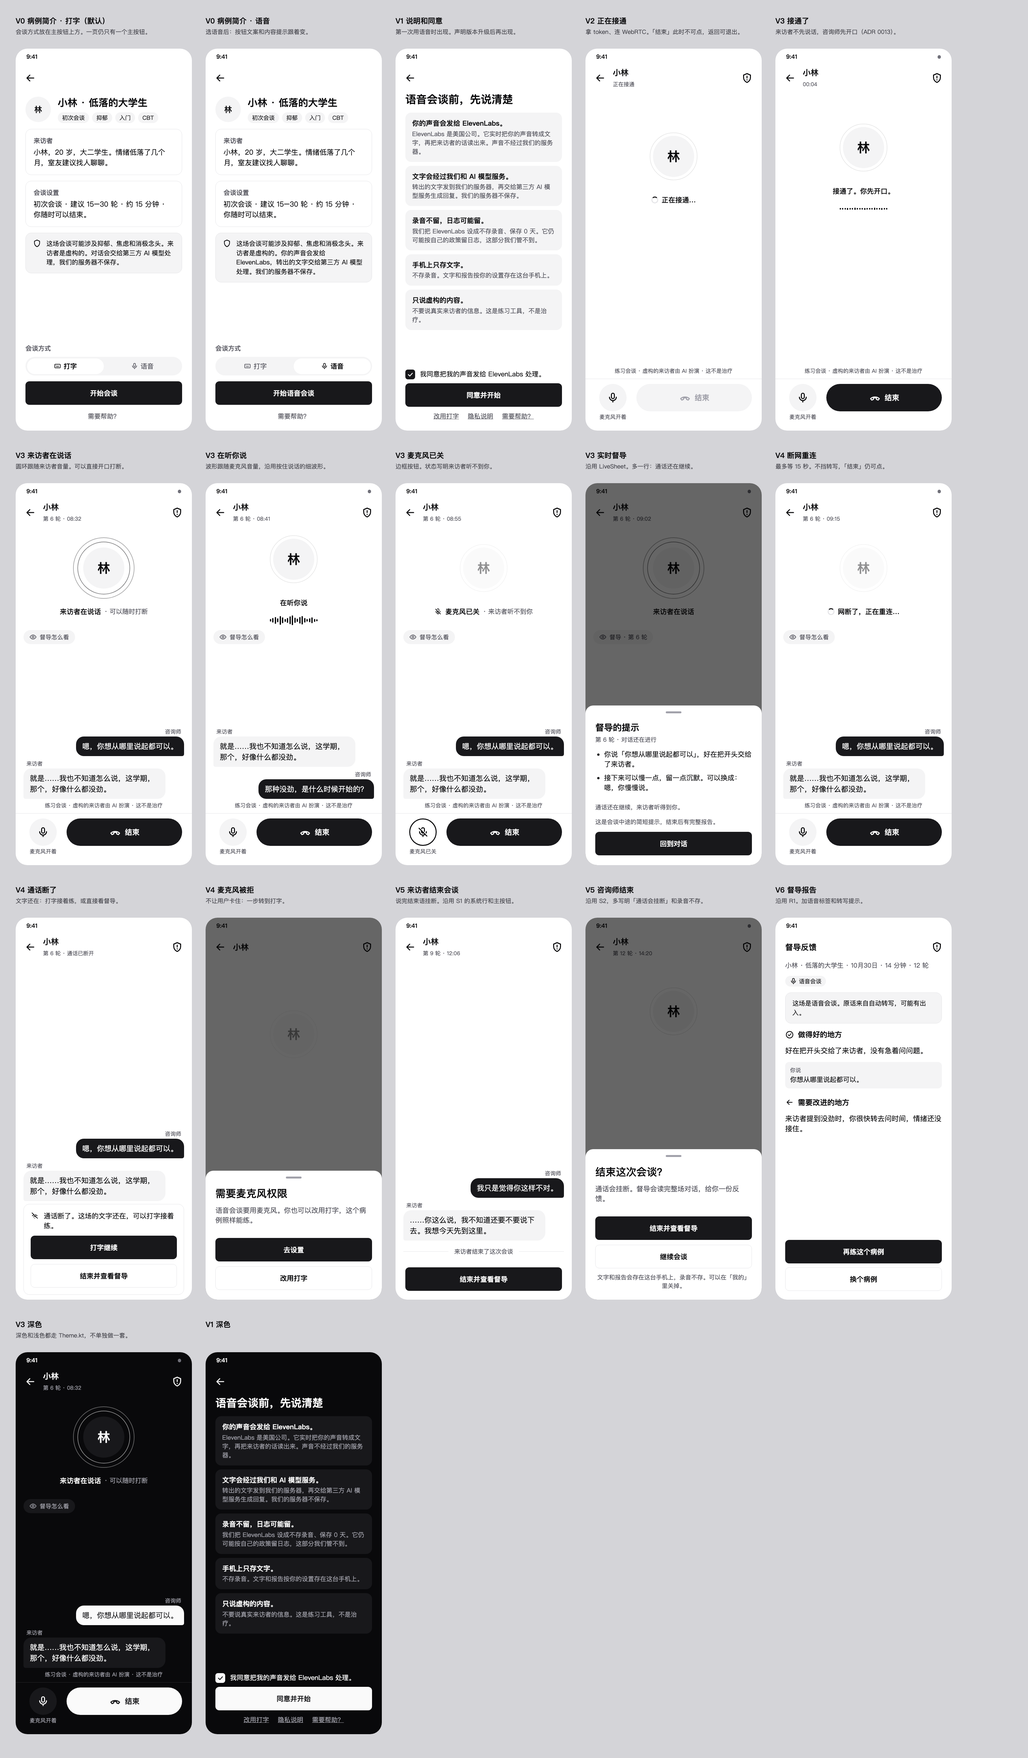
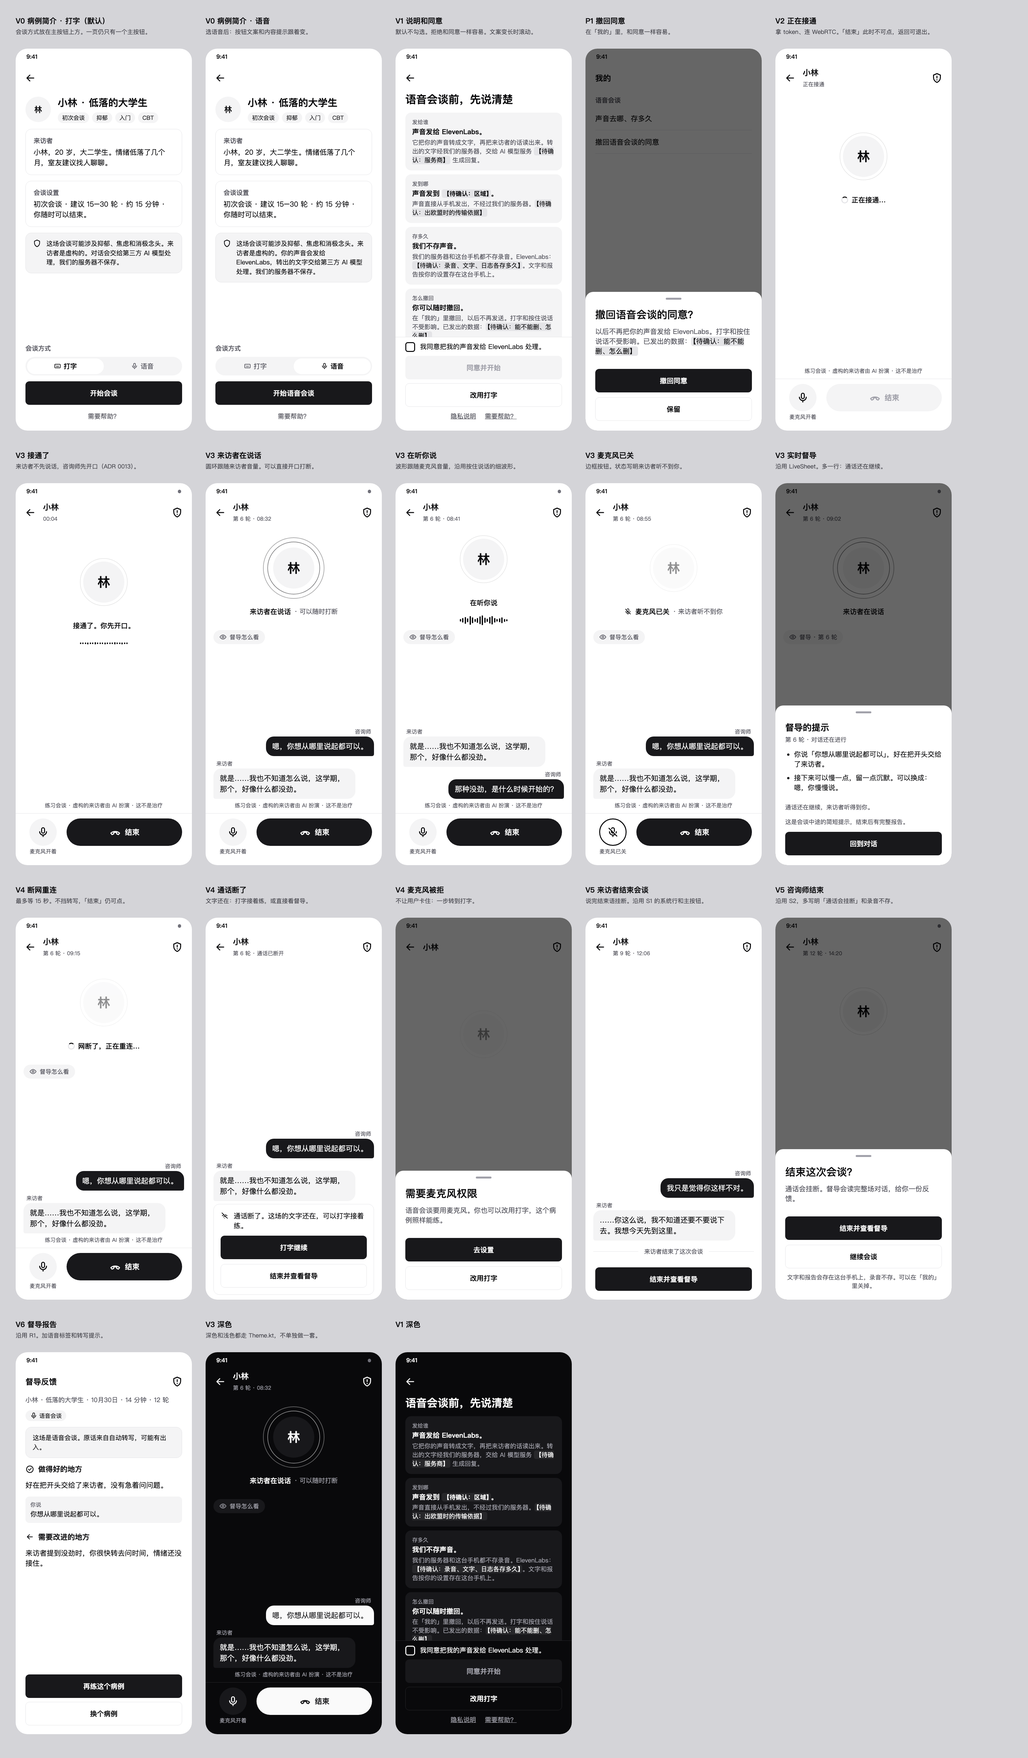
Docs: voice consent for the European version, GDPR shape and withdrawal

diff --git a/docs/product/voice-session-design/frames.html b/docs/product/voice-session-design/frames.html
@@ -38,6 +38,10 @@
   .btn.p { background:var(--primary); color:var(--on-primary); }
   .btn.s { border:1px solid var(--line); color:var(--fg); }
   .btn.off { background:var(--block); color:#A1A1AA; }
+  .box.empty { background:none; border:2px solid var(--fg); }
+  .gray em { display:block; font-style:normal; font-size:11px; color:var(--muted); margin-bottom:2px; }
+  .gray span.tbc, .tbc { display:inline; background:var(--line); border-radius:4px; padding:0 3px; color:var(--fg); }
+  .row { display:flex; align-items:center; font-size:14.5px; min-height:48px; border-bottom:1px solid var(--line); }
   .link { text-align:center; font-size:13px; color:var(--muted); padding:6px 0 2px; }
   .card { border:1px solid var(--line); border-radius:12px; padding:14px 16px; }
   .card label, .lbl { font-size:13px; color:var(--muted); font-weight:500; display:block; margin-bottom:4px; }
@@ -161,17 +165,25 @@ const consent=`${statusBar(false)}
 <div class="top"><div class="ib">${ic('back')}</div></div>
 <div class="body"><div class="pad" style="padding-top:0;gap:8px">
   <div style="font-size:22px;font-weight:600;margin-bottom:4px">语音会谈前，先说清楚</div>
-  <div class="gray"><b>你的声音会发给 ElevenLabs。</b><span>ElevenLabs 是美国公司。它实时把你的声音转成文字，再把来访者的话读出来。声音不经过我们的服务器。</span></div>
-  <div class="gray"><b>文字会经过我们和 AI 模型服务。</b><span>转出的文字发到我们的服务器，再交给第三方 AI 模型服务生成回复。我们的服务器不保存。</span></div>
-  <div class="gray"><b>录音不留，日志可能留。</b><span>我们把 ElevenLabs 设成不存录音、保存 0 天。它仍可能按自己的政策留日志，这部分我们管不到。</span></div>
-  <div class="gray"><b>手机上只存文字。</b><span>不存录音。文字和报告按你的设置存在这台手机上。</span></div>
+  <div class="gray"><em>发给谁</em><b>声音发给 ElevenLabs。</b><span>它把你的声音转成文字，再把来访者的话读出来。转出的文字经我们的服务器，交给 AI 模型服务 <span class="tbc">【待确认：服务商】</span> 生成回复。</span></div>
+  <div class="gray"><em>发到哪</em><b>声音发到 <span class="tbc">【待确认：区域】</span>。</b><span>声音直接从手机发出，不经过我们的服务器。<span class="tbc">【待确认：出欧盟时的传输依据】</span></span></div>
+  <div class="gray"><em>存多久</em><b>我们不存声音。</b><span>我们的服务器和这台手机都不存录音。ElevenLabs：<span class="tbc">【待确认：录音、文字、日志各存多久】</span>。文字和报告按你的设置存在这台手机上。</span></div>
+  <div class="gray"><em>怎么撤回</em><b>你可以随时撤回。</b><span>在「我的」里撤回，以后不再发送。打字和按住说话不受影响。已发出的数据：<span class="tbc">【待确认：能不能删、怎么删】</span></span></div>
   <div class="gray"><b>只说虚构的内容。</b><span>不要说真实来访者的信息。这是练习工具，不是治疗。</span></div>
 </div></div>
-<div class="bottom" style="padding-top:8px">
-  <div class="check"><span class="box">${ic('check')}</span><span>我同意把我的声音发给 ElevenLabs 处理。</span></div>
-  <div class="btn p">同意并开始</div>
-  <div class="link" style="display:flex;justify-content:center;gap:18px;padding-top:2px"><u>改用打字</u><u>隐私说明</u><u>需要帮助？</u></div>
+<div class="bottom" style="padding-top:10px;border-top:1px solid var(--line)">
+  <div class="check"><span class="box empty"></span><span>我同意把我的声音发给 ElevenLabs 处理。</span></div>
+  <div class="btn off">同意并开始</div>
+  <div class="btn s">改用打字</div>
+  <div class="link" style="display:flex;justify-content:center;gap:18px;padding-top:2px"><u>隐私说明</u><u>需要帮助？</u></div>
 </div>`;
+
+const withdraw=`${statusBar(false)}<div class="top"><div class="title" style="padding-left:14px"><b>我的</b></div></div>
+<div class="body"><div class="pad" style="padding-top:0;gap:0"><div class="lbl" style="margin:8px 0 4px">语音会谈</div>
+<div class="row">声音去哪、存多久</div><div class="row">撤回语音会谈的同意</div></div></div>
+<div class="scrim"></div><div class="sheet"><div class="grab"></div>
+<h4>撤回语音会谈的同意？</h4><p>以后不再把你的声音发给 ElevenLabs。打字和按住说话不受影响。已发出的数据：<span class="tbc">【待确认：能不能删、怎么删】</span></p>
+<div style="height:6px"></div><div class="btn p">撤回同意</div><div class="btn s">保留</div></div>`;
 
 const connecting=`${statusBar(false)}${bar('正在接通')}
 <div class="body"><div class="hero" style="height:300px">${orb('quiet')}<div class="state"><span class="spin"></span>正在接通…</div></div>
@@ -244,7 +256,8 @@ const report=`${statusBar(false)}<div class="top"><div class="title" style="padd
 const FRAMES=[
  ['V0 病例简介 · 打字（默认）','会谈方式放在主按钮上方。一页仍只有一个主按钮。',brief(false)],
  ['V0 病例简介 · 语音','选语音后：按钮文案和内容提示跟着变。',brief(true)],
- ['V1 说明和同意','第一次用语音时出现。声明版本升级后再出现。',consent],
+ ['V1 说明和同意','默认不勾选。拒绝和同意一样容易。文案变长时滚动。',consent],
+ ['P1 撤回同意','在「我的」里，和同意一样容易。',withdraw],
  ['V2 正在接通','拿 token、连 WebRTC。「结束」此时不可点，返回可退出。',connecting],
  ['V3 接通了','来访者不先说话，咨询师先开口（ADR 0013）。',ready],
  ['V3 来访者在说话','圆环跟随来访者音量。可以直接开口打断。',speaking],

diff --git a/docs/product/voice-session-design.md b/docs/product/voice-session-design.md
@@ -1,6 +1,6 @@
 # 语音会谈设计（给开发的规格）
 
-**状态：** 设计稿 2026-10-30，待用户确认。标「待核对」的文案在核对之前不能上线。
+**状态：** 设计稿 2026-10-30，待用户确认。**先做欧洲版本**（用户 2026-10-30）。文案里的【待确认】要等 `voice-elevenlabs` 查到事实才能填，填完之前不能上线。
 
 **一句话：** 咨询师选「语音」，同意一次，然后像打电话一样和 AI 来访者说话，可以打断，随时看转写和督导提示，结束后照旧出督导报告。
 
@@ -17,7 +17,8 @@
 | # | 决定 | 为什么 |
 |---|------|--------|
 | V-1 | 入口是 C2 主按钮上方的分段控件「打字 / 语音」。C1 和首页不加入口。 | 一页只有一个主按钮（principles §5）。模式记在本机。 |
-| V-2 | 同意只问一次，按版本。C2 的内容提示每次都写声音去哪。 | 单独同意满足 Apple 5.1.2(i)，又不让每场多一页。 |
+| V-2 | 同意按 GDPR 设计：单独一页，默认不勾选，写清发给谁、发到哪、存多久、怎么撤回。「改用打字」是和主按钮并列的按钮。只问一次，按版本。C2 的内容提示每次都写声音去哪。 | 同意要主动、知情、可以不同意且没有损失（GDPR 第 7 条）。也满足 Apple 5.1.2(i)。 |
+| V-11 | 「我的」里能撤回，两步完成，和同意一样容易。 | GDPR 第 7(3) 条：撤回要和同意一样容易。 |
 | V-3 | 通话页上面是来访者状态，下面是滚动转写。 | 听着说话时也能回看对方原话。备选是默认收起转写的纯通话页，更像真实会谈；等内测有反馈再说。 |
 | V-4 | 结束键**不用红色**，用主按钮色。 | screens.md：红色只用于真正的错误。 |
 | V-5 | 只有两个通话状态：来访者在说话、在听你说。**没有「来访者在想」。** | SDK 的 `onModeChange` 只有 `speaking` 和 `listening`。咨询师的转写也是一轮结束才到，所以没有实时字幕。 |
@@ -58,11 +59,12 @@ C2 选「语音」→ 开始语音会谈
 
 ### V1 · 说明和同意（新页面）
 
-- 顶栏只有返回。标题 `headlineSmall`。五张 `GrayCard`，和 O2 同一种样式，一屏放不下时滚动。
-- 底部固定：勾选框、主按钮、三个 `UnderlinedLink`（改用打字、隐私说明、需要帮助？）。
-- 没勾选时主按钮不可点。
-- 同意后本机存 `voiceConsentVersion`。第 5 节 V1 的文案有实质改动时升版本，用户下次选语音时重新确认。
-- 「改用打字」：回到 C2，模式切回打字。
+- 顶栏只有返回。标题 `headlineSmall`。五张 `GrayCard`，和 O2 同一种样式；前四张上面有小标题：发给谁、发到哪、存多久、怎么撤回。
+- **文案会变长。** 卡片高度跟内容走，不写固定高度，不截断。中间区域滚动，按现在的 1.5 倍长度和 200% 字号都要能看完。`bottom` 区上边有 1dp 分隔线，告诉用户上面还有内容。
+- 底部固定：勾选框、主按钮、次按钮「改用打字」、两个 `UnderlinedLink`（隐私说明、需要帮助？）。
+- **勾选框默认不勾选**，每次进这一页都重置。没勾选时主按钮不可点。不用「继续即同意」这类默认同意。
+- 同意后本机存 `voiceConsentVersion` 和同意时间。发给谁、发到哪、存多久有任何变化时升版本，用户下次选语音时重新确认。
+- 「改用打字」：回到 C2，模式切回打字，不再追问。拒绝不影响其他功能。
 - 第一次语音会谈才出现，引导页不加这一页。
 
 ### V2 · 正在接通
@@ -146,7 +148,7 @@ R1 不变，`/supervision` 不变。只加两处：
 
 ### 「我的」和 P3
 
-- P1「帮助」组加一行「语音会谈的声音去哪」，打开 P3 对应的问答。同意过时再加一行「撤回语音会谈的同意」：清掉本机的 `voiceConsentVersion`，下次选语音时重新出现 V1。
+- P1「帮助」组加一行「语音会谈的声音去哪」，打开 P3 对应的问答。同意过时再加一行「撤回语音会谈的同意」，点开是确认弹层（设计稿 P1），确认后清掉本机的 `voiceConsentVersion`，下次选语音时重新出现 V1。
 - P3 加两问（第 5 节）。现有的「按住说话会上传我的声音吗？」只讲按住说话，保留。
 
 ---
@@ -182,21 +184,25 @@ R1 不变，`/supervision` 不变。只加两处：
 | brief_content_note_voice | 这场会谈可能涉及抑郁、焦虑和消极念头。来访者是虚构的。你的声音会发给 ElevenLabs，转出的文字交给第三方 AI 模型处理。我们的服务器不保存。 | This session may touch on depression, anxiety and dark thoughts. The client is fictional. Your voice goes to ElevenLabs, and a third-party AI model processes the text. Our servers don't store it. |
 | brief_voice_note | 你的声音会发给 ElevenLabs，转出的文字交给第三方 AI 模型处理。我们的服务器不保存。 | Your voice goes to ElevenLabs, and a third-party AI model processes the text. Our servers don't store it. |
 | voice_consent_title | 语音会谈前，先说清楚 | Before your first voice session |
-| voice_consent_1_title | 你的声音会发给 ElevenLabs。 | Your voice goes to ElevenLabs. |
-| voice_consent_1_body | ElevenLabs 是美国公司。它实时把你的声音转成文字，再把来访者的话读出来。声音不经过我们的服务器。 | ElevenLabs is a US company. It turns your voice into text as you speak and reads out the client's words. Your voice doesn't pass through our servers. |
-| voice_consent_2_title | 文字会经过我们和 AI 模型服务。 | The text goes through us and an AI model service. |
-| voice_consent_2_body | 转出的文字发到我们的服务器，再交给第三方 AI 模型服务生成回复。我们的服务器不保存。 | The text goes to our server and on to a third-party AI model service that writes the reply. Our servers don't store it. |
-| voice_consent_3_title | 录音不留，日志可能留。 | No recordings. Logs may remain. |
-| voice_consent_3_body | 我们把 ElevenLabs 设成不存录音、保存 0 天。它仍可能按自己的政策留日志，这部分我们管不到。 | We set ElevenLabs to save no audio and keep data for 0 days. It may still keep logs under its own policy, which we don't control. |
-| voice_consent_4_title | 手机上只存文字。 | Your phone keeps text only. |
-| voice_consent_4_body | 不存录音。文字和报告按你的设置存在这台手机上。 | No recordings. The text and report are saved on this phone, following your setting. |
+| voice_consent_1_label | 发给谁 | Who receives it |
+| voice_consent_1_title | 声音发给 ElevenLabs。 | Your voice goes to ElevenLabs. |
+| voice_consent_1_body | 它把你的声音转成文字，再把来访者的话读出来。转出的文字经我们的服务器，交给 AI 模型服务【待确认：服务商】生成回复。 | It turns your voice into text and reads out the client's words. The text goes through our server to an AI model service [TBC: provider] that writes the reply. |
+| voice_consent_2_label | 发到哪 | Where it goes |
+| voice_consent_2_title | 声音发到【待确认：区域】。 | Your voice goes to [TBC: region]. |
+| voice_consent_2_body | 声音直接从手机发出，不经过我们的服务器。【待确认：出欧盟时的传输依据】 | It goes straight from your phone and doesn't pass through our servers. [TBC: transfer basis if it leaves the EU] |
+| voice_consent_3_label | 存多久 | How long it's kept |
+| voice_consent_3_title | 我们不存声音。 | We don't store your voice. |
+| voice_consent_3_body | 我们的服务器和这台手机都不存录音。ElevenLabs：【待确认：录音、文字、日志各存多久】。文字和报告按你的设置存在这台手机上。 | Neither our servers nor this phone keep a recording. ElevenLabs: [TBC: how long audio, text and logs are kept]. The text and report are saved on this phone, following your setting. |
+| voice_consent_4_label | 怎么撤回 | How to withdraw |
+| voice_consent_4_title | 你可以随时撤回。 | You can withdraw at any time. |
+| voice_consent_4_body | 在「我的」里撤回，以后不再发送。打字和按住说话不受影响。已发出的数据：【待确认：能不能删、怎么删】 | Withdraw under Me and we stop sending it. Typing and hold to talk keep working. Data already sent: [TBC: whether and how it can be deleted] |
 | voice_consent_5_title | 只说虚构的内容。 | Keep it fictional. |
 | voice_consent_5_body | 不要说真实来访者的信息。这是练习工具，不是治疗。 | Don't mention real clients. This is a practice tool, not therapy. |
 | voice_consent_check | 我同意把我的声音发给 ElevenLabs 处理。 | I agree to send my voice to ElevenLabs for processing. |
 | voice_consent_accept | 同意并开始 | Agree and start |
 | voice_use_text | 改用打字 | Type instead |
 
-**`voice_consent_3` 待核对：** 这张卡是 ADR 0013 里的安排，不是已验证的事实。上线前要确认 ElevenLabs 后台真的是保存 0 天、录音关闭，并读完它的数据处理条款。开了 Zero Retention Mode 就把这张卡改掉。
+**【待确认】不能猜。** 事实由 `voice-elevenlabs` 给。之前稿子里的「设成不存录音、保存 0 天」是 ADR 0013 的安排，没有验证过，所以这版拿掉了。
 
 ### V2–V6
 
@@ -232,14 +238,16 @@ R1 不变，`/supervision` 不变。只加两处：
 
 | key | 中文 | English |
 |-----|------|---------|
-| settings_voice_where | 语音会谈的声音去哪 | Where voice session audio goes |
+| settings_voice_where | 声音去哪、存多久 | Where your voice goes and how long it's kept |
 | settings_voice_withdraw | 撤回语音会谈的同意 | Withdraw consent for voice sessions |
+| voice_withdraw_title | 撤回语音会谈的同意？ | Withdraw consent for voice sessions? |
+| voice_withdraw_body | 以后不再把你的声音发给 ElevenLabs。打字和按住说话不受影响。已发出的数据：【待确认：能不能删、怎么删】 | We stop sending your voice to ElevenLabs. Typing and hold to talk keep working. Data already sent: [TBC: whether and how it can be deleted] |
+| voice_withdraw_confirm | 撤回同意 | Withdraw consent |
+| voice_withdraw_keep | 保留 | Keep it |
 | privacy_q_voice_session | 语音会谈的声音去了哪里？ | Where does my voice go in a voice session? |
-| privacy_a_voice_session | 发给 ElevenLabs（美国公司），实时转成文字；来访者的话也由它读出来。声音不经过我们的服务器。转出的文字和打字一样，经我们的服务器交给 AI 模型服务。 | To ElevenLabs, a US company, which turns it into text as you speak and reads out the client's words. Your voice doesn't pass through our servers. The text then goes through our server to the AI model service, like typed text. |
+| privacy_a_voice_session | 发给 ElevenLabs，实时转成文字；来访者的话也由它读出来。声音发到【待确认：区域】，不经过我们的服务器。转出的文字和打字一样，经我们的服务器交给 AI 模型服务。 | To ElevenLabs, which turns it into text as you speak and reads out the client's words. It goes to [TBC: region] and doesn't pass through our servers. The text then goes through our server to the AI model service, like typed text. |
 | privacy_q_voice_store | 语音会谈的声音存吗？ | Is my voice stored? |
-| privacy_a_voice_store | 我们不存，手机上也不存。我们把 ElevenLabs 设成不存录音、保存 0 天，它仍可能按自己的政策留日志。 | We don't store it, and neither does your phone. We set ElevenLabs to save no audio and keep data for 0 days. It may still keep logs under its own policy. |
-
-`privacy_a_voice_store` 和 `voice_consent_3` 一样待核对。
+| privacy_a_voice_store | 我们不存，手机上也不存。ElevenLabs：【待确认：录音、文字、日志各存多久】 | We don't store it, and neither does your phone. ElevenLabs: [TBC: how long audio, text and logs are kept] |
 
 ---
 
@@ -275,16 +283,17 @@ R1 不变，`/supervision` 不变。只加两处：
 
 | # | 问题 | 谁定 | 默认做法 |
 |---|------|------|----------|
-| Q1 | App 怎么知道语音可用？`/voice/session` 关着时回 404，要等点了才知道 | voice-elevenlabs | 建议 `GET /cases` 或启动配置里带一个开关。没有开关时隐藏入口 |
+| Q1 | App 怎么知道语音可用，怎么判断用户在欧洲（商店地区、系统地区还是服务端）？`/voice/session` 关着时回 404，要等点了才知道 | voice-elevenlabs | 建议 `GET /cases` 或启动配置里带一个开关。没有开关时隐藏入口 |
 | Q2 | 关麦以后，6 秒沉默规则还算不算？算的话，来访者会自己接着说 | voice-elevenlabs 真机验证 | 先接受。状态行已写明来访者听不到你 |
 | Q3 | 被打断时，来访者那段转写是全文还是实际说出的部分？ | voice-elevenlabs 真机验证 | SDK 给修正事件就用修正后的。否则保留全文，靠 `voice_report_note` 兜底 |
 | Q4 | 来访者文字比声音早到多少？ | voice-elevenlabs 真机验证 | 收到就上屏。差得太多再按语速放出 |
 | Q5 | 真实延迟多少，要不要等待时的提示 | voice-elevenlabs 真机验证 | 不加。ADR 0013 要求先测 |
 | Q6 | 音量回调 Android 和 iOS 是否都有 | voice-elevenlabs | 没有时用呼吸动画 |
-| Q7 | ElevenLabs 在中国大陆能不能连 | 真机验证 | 连不上走 V2 失败卡片，改用打字。聆镜在大陆的成员要特别测 |
+| Q7 | 欧洲版不覆盖中国大陆。聆镜在大陆的成员怎么试语音 | 用户 | 先不开放，他们用打字 |
 | Q8 | 分钟数上限（ElevenLabs 按分钟计费） | 用户 | 现在只有 80 条的上限，没有分钟上限 |
 | Q9 | 通话断了能不能带上文重新接通 | 第二版 | 第一版只转打字。需要 `/voice/session` 接收已有对话 |
-| Q10 | 声音算不算敏感个人信息，跨境依据写什么（GDPR、PIPL） | 用户，需要专业意见 | V1 是单独同意，文案够用但没有经过法律审阅 |
+| Q10 | 声音算不算特殊类别数据（GDPR 第 9 条），跨境依据写什么，同意记录只存手机够不够证明（第 7(1) 条），运营者主体是谁（隐私政策还写着待定） | 用户，需要专业意见 | V1 按单独同意设计，没有经过法律审阅 |
+| Q13 | V1 的【待确认】：区域、合同主体、传输依据、保存时长、撤回后能否删除、模型服务商 | voice-elevenlabs | 填完才能上线 |
 | Q11 | 打开「需要帮助」就挂断，算不算太重 | 用户、聆镜 | 按 V-7。G8「返回后会谈还在」改为文字还在，能打字继续 |
 | Q12 | 督导提示词要不要知道转写可能有错，避免为转写错误批评咨询师 | voice-elevenlabs、聆镜 | 先不改，只在报告上提示 |
 
@@ -292,7 +301,8 @@ R1 不变，`/supervision` 不变。只加两处：
 
 ## 9. 验收
 
-- 第一次选语音会看到 V1；不勾选点不了；同意后下次不再出现；撤回后再次出现。
+- 第一次选语音会看到 V1；勾选框默认空着；不勾选点不了；同意后下次不再出现；撤回后再次出现；发给谁、发到哪、存多久变了会再次出现。
+- 拒绝（改用打字）后，其他功能都正常。文案加长 1.5 倍、字号 200% 时 V1 能看完。
 - 语音不可用时，C2 和现在一样。
 - 拒绝麦克风权限后，一步能转到打字，同一病例能练。
 - 来访者说话时能直接开口打断，状态马上切到「在听你说」。
